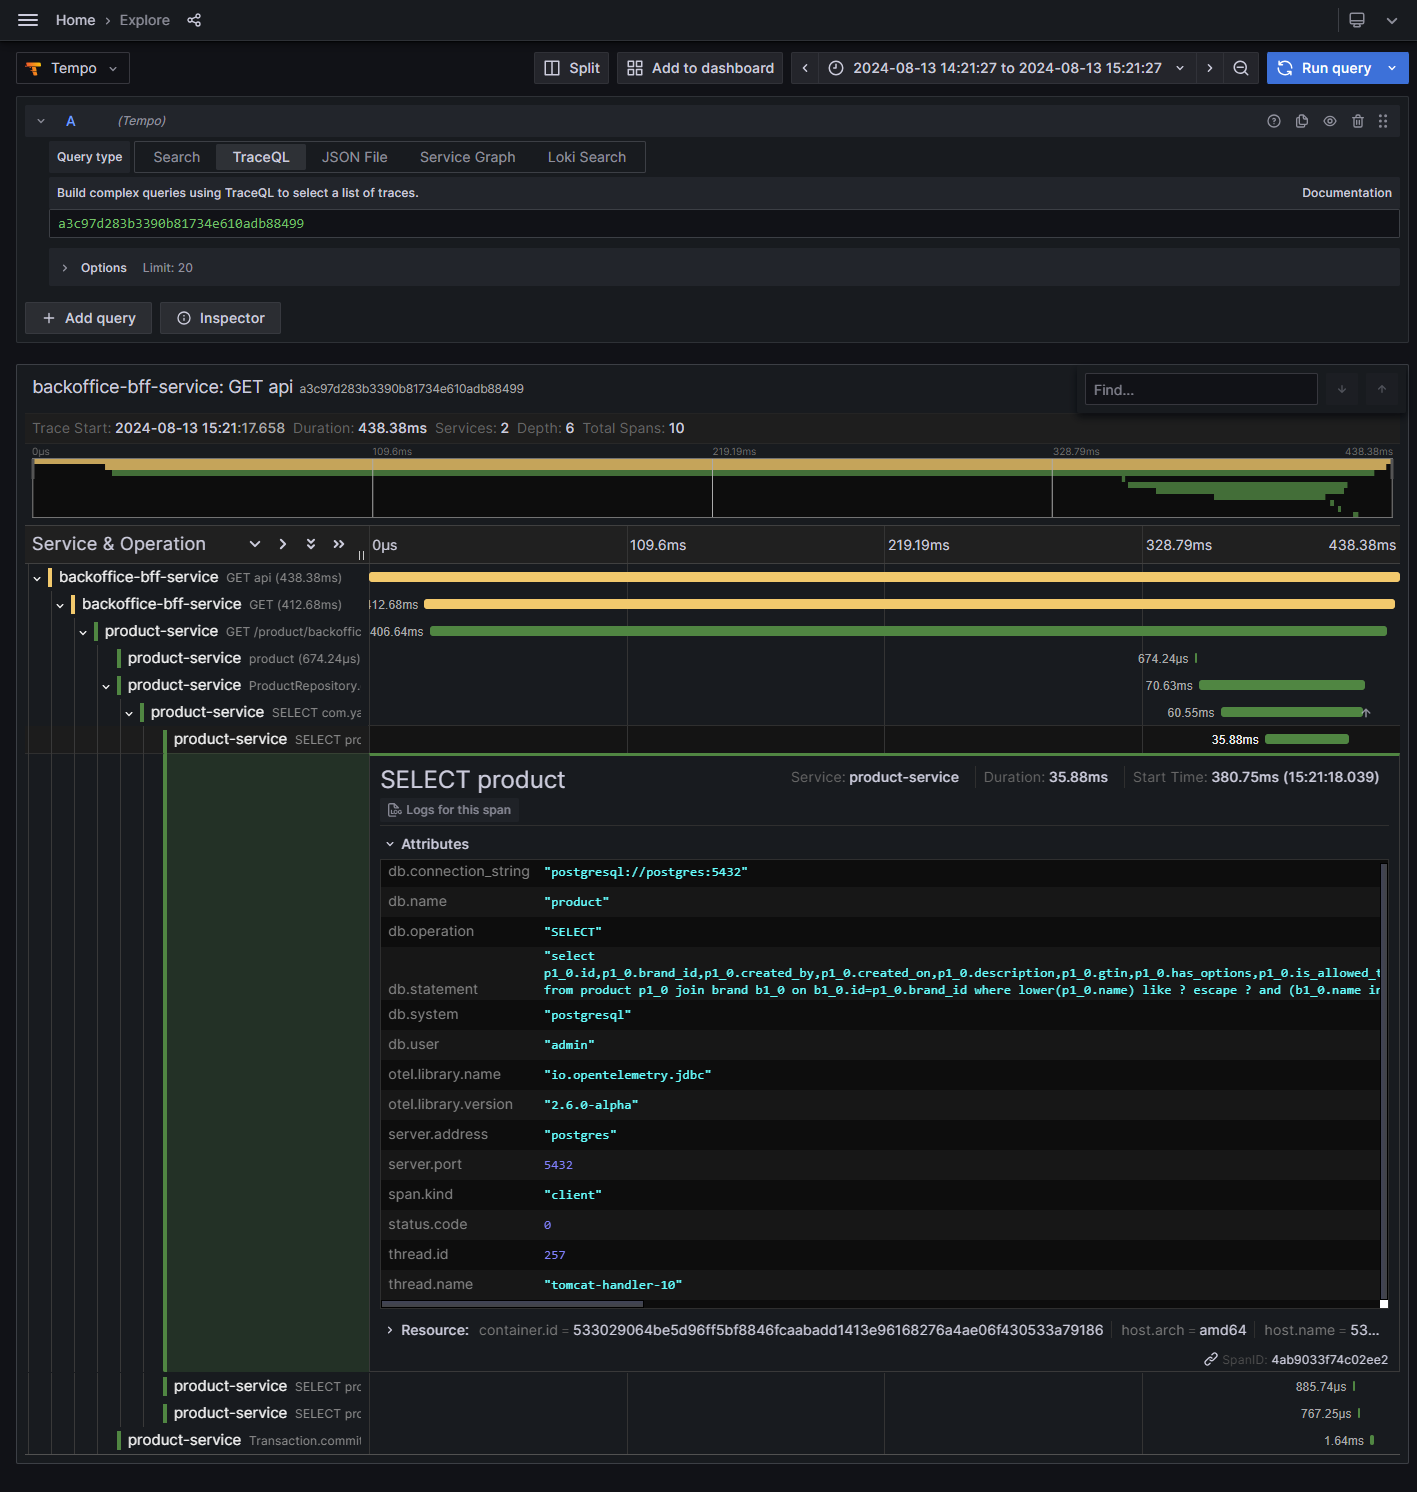
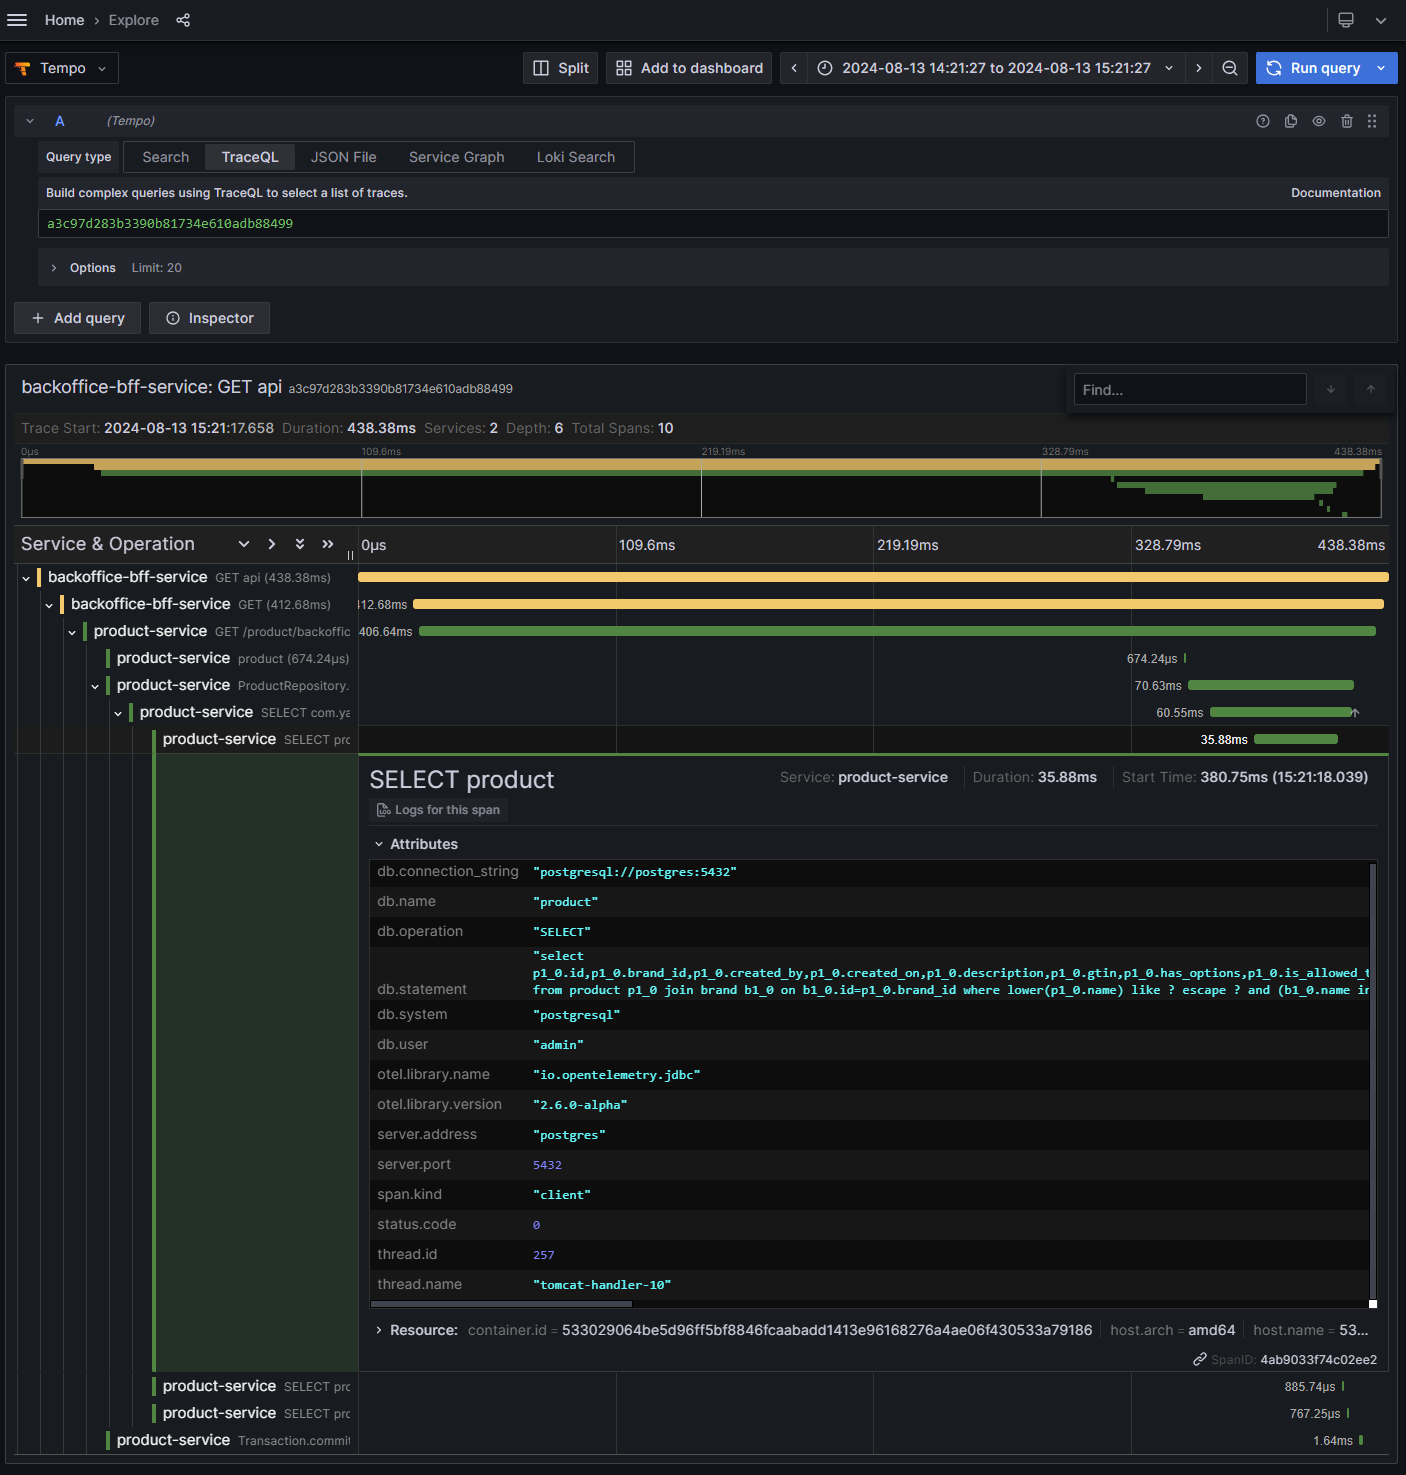
screenshots styling

diff --git a/README.md b/README.md
@@ -95,7 +95,22 @@ https://github.com/nashtech-garage/yas/tree/main/k8s/deploy
 By contributing, you agree that your contributions will be licensed under MIT License. 
 
 ## Screenshots
-| Storefront & Backoffice | Observability |
-| ---------- | ------------|
-|<img src="screenshots/yas-storefront.png" alt="Yas Storefront" height="500"/> | <img src="screenshots/yas-grafana-tracing.png" alt="Yas Grafana Tracing" height="500"/> |
-| <img src="screenshots/yas-backoffice.png" alt="Yas Backoffice" height="500"/> | <img src="screenshots/yas-grafana-metrics.png" alt="Yas Grafana Metrics" height="500"/> |
+
+<table>
+    <thead>
+        <tr>
+            <th>Backoffice &amp; Storefront</th>
+            <th>Observability</th>
+        </tr>
+    </thead>
+    <tbody>
+        <tr valign="top">
+            <td><img src="screenshots/yas-backoffice.png" alt="Yas Backoffice"/></td>
+            <td><img src="screenshots/yas-grafana-tracing.png" alt="Yas Grafana Tracing"/></td>
+        </tr>
+        <tr valign="top">
+            <td><img src="screenshots/yas-storefront.png" alt="Yas Storefront"/></td>
+            <td><img src="screenshots/yas-grafana-metrics.png" alt="Yas Grafana Metrics"/></td>
+        </tr>
+    </tbody>
+</table>